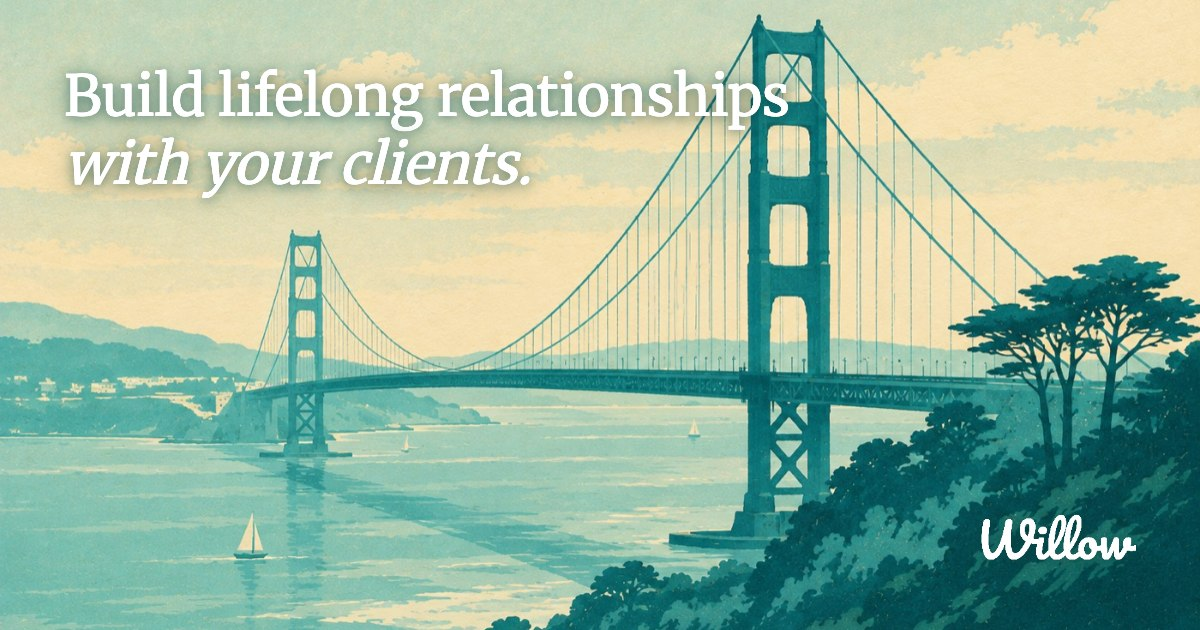
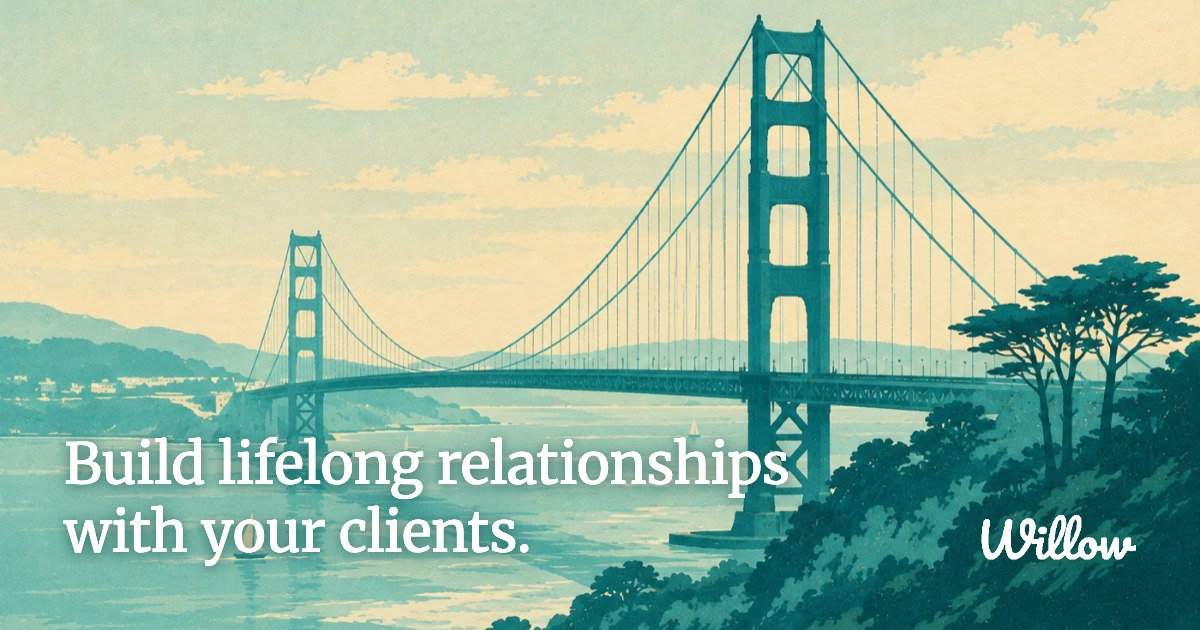
Share card: no italic, headline bottom-left

Changed region(s): [[0.0308, 0.0905, 0.6783, 0.3317], [0.0308, 0.6937, 0.6783, 0.9048]]

diff --git a/public/og-card.html b/public/og-card.html
@@ -9,14 +9,14 @@
   .card { position: relative; width: 1200px; height: 630px; }
   .card img.bg { position: absolute; inset: 0; width: 100%; height: 100%; object-fit: cover; object-position: center 42%; }
   .logo { position: absolute; bottom: 44px; right: 64px; height: 92px; filter: brightness(0) invert(1) drop-shadow(0 2px 8px rgba(6,69,68,0.5)); }
-  .line { position: absolute; left: 64px; top: 64px; right: 64px; color: #fff; font-family: 'Merriweather', Georgia, serif; font-weight: 400; font-size: 56px; line-height: 1.22; letter-spacing: 0.005em; text-shadow: 0 2px 10px rgba(6,69,68,0.55), 0 4px 30px rgba(6,69,68,0.45); }
+  .line { position: absolute; left: 64px; bottom: 64px; right: 64px; color: #fff; font-family: 'Merriweather', Georgia, serif; font-weight: 400; font-size: 56px; line-height: 1.22; letter-spacing: 0.005em; text-shadow: 0 2px 10px rgba(6,69,68,0.55), 0 4px 30px rgba(6,69,68,0.45); }
 </style>
 </head>
 <body>
   <div class="card">
     <img class="bg" src="/golden-gate.jpg" />
     <img class="logo" src="/lovable-uploads/0f8b3b1d-f883-4294-a922-15b61c180de1.png" />
-    <div class="line">Build lifelong relationships<br /><em>with your clients.</em></div>
+    <div class="line">Build lifelong relationships<br />with your clients.</div>
   </div>
 </body>
 </html>
